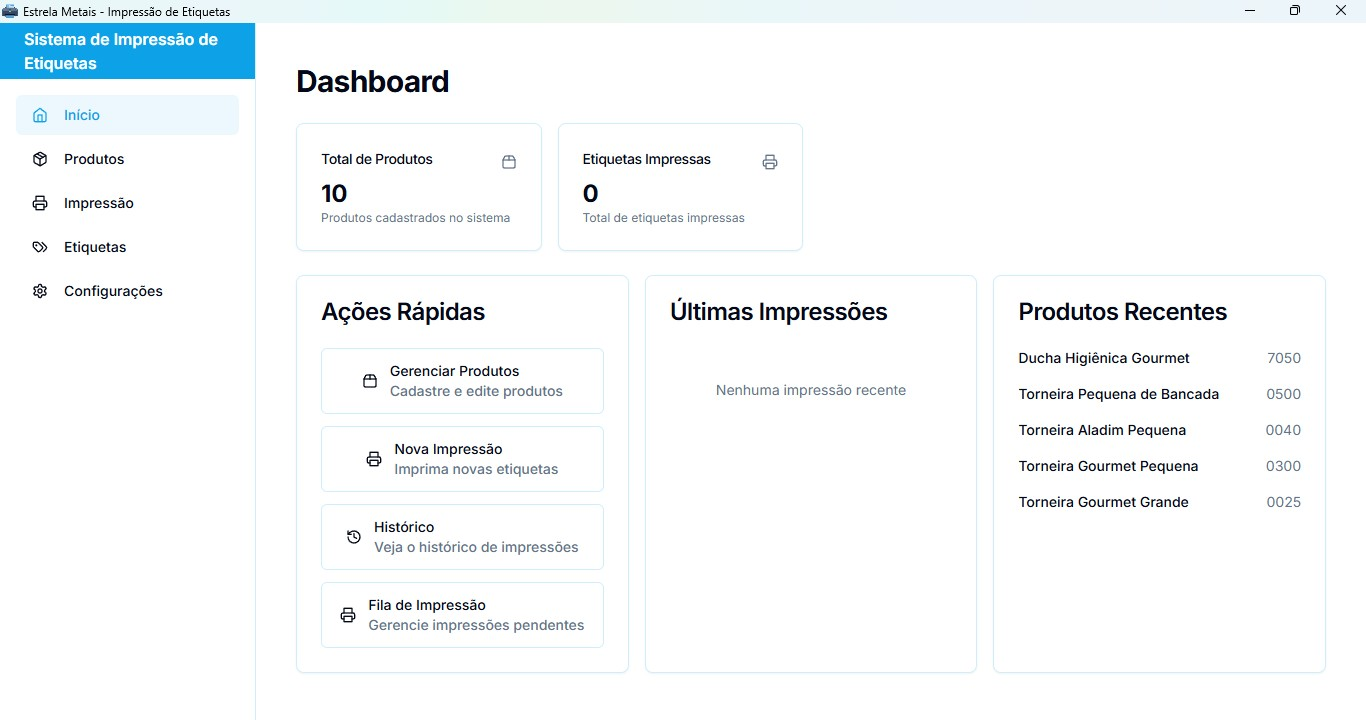
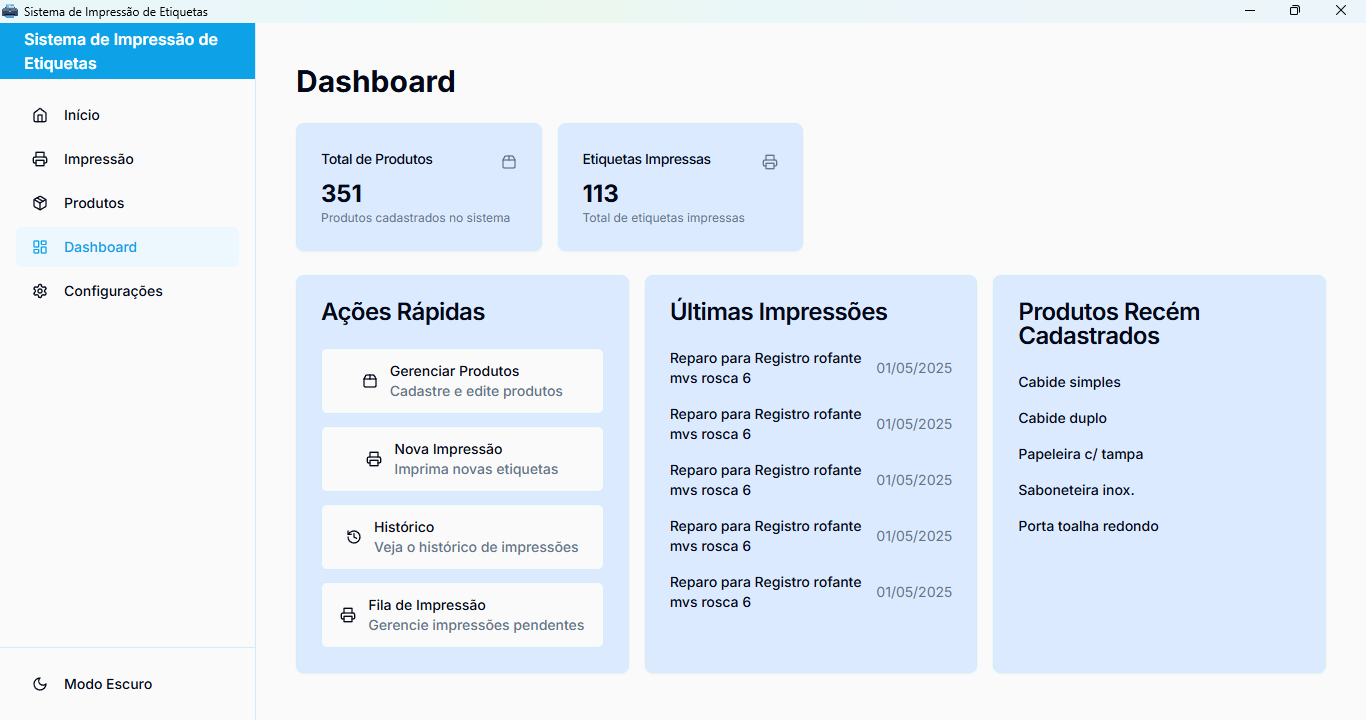
Atualização do Readme.md e atualização dos screenshots na pasta docs

diff --git a/src/app/page.tsx b/src/app/page.tsx
@@ -47,7 +47,7 @@ export default function HomePage() {
                 Selecione produtos e imprima etiquetas com códigos de barras
               </p>
               <Button variant={isHovered ? "default" : "outline"} className="mt-2">
-                Acessar Sistema <ArrowRight className="ml-2 h-5 w-5" />
+                Ir para Impressão<ArrowRight className="ml-2 h-5 w-5" />
               </Button>
             </CardContent>
           </Card>

diff --git a/README.md b/README.md
@@ -1,18 +1,30 @@
-# Sistema de Etiquetas - Estrela Metais
-
+# Sistema de Impresão de Etiquetas
 Sistema desktop desenvolvido para a Estrela Metais para impressão de etiquetas térmicas, com suporte ao protocolo PPLA, desenvolvido com Tauri, Next.js e Rust.
 
-![Tela do Sistema](./docs/screenshots/dashboard.png)
-
-![Tela do Sistema](./docs/screenshots/dashboard2.png)
-
-![Tela do Sistema](./docs/screenshots/produtos.png)
+![Tela do Sistema](./docs/screenshots/home.png)
 
 ![Tela do Sistema](./docs/screenshots/impressao.png)
 
-![Tela do Sistema](./docs/screenshots/etiquetas.png)
+![Tela do Sistema](./docs/screenshots/produtos.png)
 
-![Tela do Sistema](./docs/screenshots/config.png)
+![Tela do Sistema](./docs/screenshots/dashboard.png)
+
+![Tela do Sistema](./docs/screenshots/configuracao.png)
+
+![Tela do Sistema](./docs/screenshots/configuracao_parte2.png)
+
+![Tela do Sistema](./docs/screenshots/home_dark.png)
+
+![Tela do Sistema](./docs/screenshots/impressao_dark.png)
+
+![Tela do Sistema](./docs/screenshots/produtos_dark.png)
+
+![Tela do Sistema](./docs/screenshots/dashboard_dark.png)
+
+![Tela do Sistema](./docs/screenshots/configuracao_dark.png)
+
+![Tela do Sistema](./docs/screenshots/configuracao_parte2_dark.png)
+
 
 ## 💡 Funcionalidades
 
@@ -20,64 +32,67 @@ Sistema desktop desenvolvido para a Estrela Metais para impressão de etiquetas 
   - Cadastro completo de produtos
   - Código de produto personalizado
   - Nome abreviado para etiquetas
-  - Busca rápida por código ou nome
+  - Busca rápida por código
+  Geração automática de código de barras do tipo EAN-13
 
 - 🏷 **Impressão de Etiquetas**
   - Suporte a impressoras PPLA
-  - Código de barras EAN-13
   - Impressão em lote
   - Preview em tempo real
-  - Configuração de densidade e velocidade
 
 - ⚙ **Configurações Avançadas**
-  - Detecção automática de portas
+  - Modo Claro e Modo Escuro Disponivel
   - Configuração de velocidade e densidade
-  - Teste de conexão
   - Monitoramento do status da impressora
 
 - 📊 **Dashboard e Relatórios**
   - Visão geral de produtos
   - Histórico de impressões
   - Estatísticas de uso
-  - Status da impressora em tempo real
 
 ### Requisitos
 
 - Windows 10 ou superior
 - 4GB RAM (mínimo)
 - 100MB de espaço em disco
-- Impressora térmica compatível com PPLA
+- Impressora térmica Argox SO-2140 ou outra impressora compatível com PPLA
 
 ### Passos para Instalação
 
-1. Baixe o instalador mais recente da [página de releases](https://github.com/seu-usuario/sistema-etiquetas/releases)
+1. Baixe o instalador mais recente da [página de releases](https://github.com/celsojuniorladislau/SistemaDeImpressaoDeEtiquetas/releases)
 2. Execute o instalador e siga as instruções
 3. Conecte a impressora antes de iniciar o sistema
-4. Configure a porta e velocidade da impressora nas configurações
+4. Instale os drivers da impressora a partir do site da fabricante da impressora, ou verifique se os mesmos estão atualizados
 
 ## Guia Rápido
 
 1. **Primeiro Uso**
    - Instale o sistema usando um dos instaladores
    - Inicie o sistema através do atalho criado
-   - Configure a impressora em "Configurações"
+   - Configure a impressora em "Configurações": Escolha a Argox SO-2140 ou outra com suporte a PPLA na lista de impressoras disponiveis
 
 2. **Cadastro de Produtos**
-   - Acesse "Produtos"
+   - Acesse a aba "Produtos"
    - Clique em "Novo Produto"
-   - Preencha os dados (nome, nome abreviado, código)
-   - Clique em "Salvar"
+   - Preencha os dados (nome, nome abreviado, código do produto e descrição opcional do produto)
+   - Clique em "Criar Produto"
 
 3. **Impressão de Etiquetas**
-   - Acesse "Impressão"
-   - Selecione o produto
-   - Defina a quantidade
-   - Clique em "Imprimir"
+   - Na Aba "Inicio" clique no botão "Imprimir Etiquetas" ou vá para a aba "Impressão"
+   - Digite o Código do produto e aperte ENTRE para proseguir
+   - Defina a quantidade e aperte ENTRE para proseguir
+   - Clique em "Imprimir Selecionados" ou clique em "Visualizar Etiquetas" e depois clique em "Imprimir Etiquetas"
 
 4. **Gerenciamento**
-   - Acompanhe impressões em andamento em "Fila"
-   - Visualize impressões realizadas em "Histórico"
-   - Ajuste configurações em "Configurações"
+   - Na aba Dashboard:
+      * Visualize impressões realizadas em "Histórico"
+      * Acompanhe impressões em andamento em "Fila de Impressão"
+
+   - Na aba Configuração:
+      * Ajuste configurações da impressora: Densidade de Impressão, Velocidade, Largura e Altura da etiqueta (em Dots)
+
+   - Na aba Produtos: 
+      * Faça edição das informações dos produtos ou exclua-os
 
 
 ## Tecnologias Utilizadas
